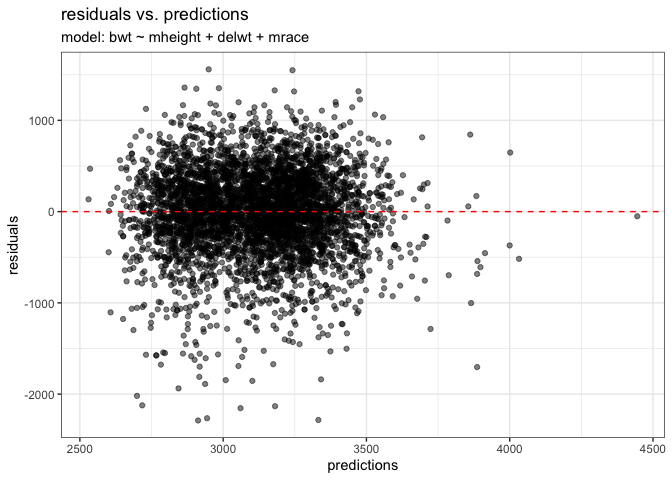
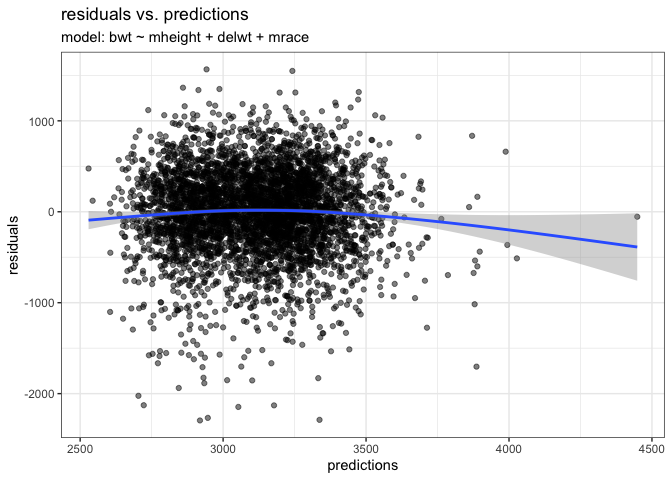
Well Done

diff --git a/p8105_hw6_hc3654.md b/p8105_hw6_hc3654.md
@@ -158,7 +158,8 @@ ggplot(aes(x = OR, y = fct_reorder(city_state, OR)))+
 ```
 
 ![](p8105_hw6_hc3654_files/figure-gfm/unnamed-chunk-6-1.png)<!-- -->
-\### Comment:
+
+### Comment:
 
 The plot reveals that the adjusted Odds Ratio (OR) is less than 1 for
 the majority of cities, indicating a prevailing pattern where female
@@ -272,12 +273,18 @@ fit_bootstrap |>
 |---------:|---------:|
 |    0.934 |    0.947 |
 
+Comments: Here is the plot of distribution for R^2. We can see in most
+of the Beta Ratio estimate is between 0.93 to 0.95, The highest density
+is around -0.943. From the table I saw the lower bound for the 95% CI of
+beta ratio is 0.934. Upper Bound is -0.947. Which confirmed the results
+from our plot.
+
 ### For Beta(1) / Beta(2)
 
 ``` r
 ggplot(fit_bootstrap, aes(x = beta_ratio)) +
   geom_density(fill = "lightblue", alpha = 0.6) +
-  labs(title = "Bootstrap Distribution of R-squared", x = "R^2 Estimate") +
+  labs(title = "Bootstrap Distribution of Beta Ratio", x = "Beta Ratio Estimate") +
   theme_minimal()
 ```
 
@@ -296,6 +303,12 @@ fit_bootstrap |>
 |------------:|------------:|
 |    -274.795 |    -125.484 |
 
+Comments: Here is the plot of distribution for Beta(1)/Beta(2). We can
+see in most of the Beta Ratio estimate is between -100 to -300, The
+highest density is around -170. From the table I saw the lower bound for
+the 95% CI of beta ratio is -274.795. Upper Bound is -125.484. Which
+confirmed the results from our plot.
+
 # Problem 3:
 
 ``` r
@@ -305,7 +318,7 @@ baby_df_cleaned = read.csv("birthweight.csv") |>
   drop_na()
 
 
-my_mod <- lm(bwt ~ mheight + delwt + mrace, data = baby_df_cleaned) 
+my_mod <- lm(bwt ~ mheight + delwt + mrace + menarche + momage, data = baby_df_cleaned) 
 
 
 baby_df_cleaned|> 
@@ -313,7 +326,7 @@ baby_df_cleaned|>
   add_residuals(my_mod) |> 
   ggplot(aes(x = pred, y = resid))+
   geom_point(alpha = 0.5)+
-  geom_hline(yintercept = 0, linetype = "dashed", color = "red")+
+  geom_smooth(type = "lm")+
   labs(title = "residuals vs. predictions",
        subtitle = "model: bwt ~ mheight + delwt + mrace ",
        x = "predictions",
@@ -321,7 +334,50 @@ baby_df_cleaned|>
   theme_bw()
 ```
 
+    ## Warning in geom_smooth(type = "lm"): Ignoring unknown parameters: `type`
+
+    ## `geom_smooth()` using method = 'gam' and formula = 'y ~ s(x, bs = "cs")'
+
 ![](p8105_hw6_hc3654_files/figure-gfm/unnamed-chunk-12-1.png)<!-- -->
+
+### Comments:
+
+My proposed model (my_mod) is built on a hypothesized structure intended
+to link easily accessible maternal and timing factors to the final birth
+weight (bwt, in grams). This selection strategy focuses on core inputs
+that are hypothesized to influence the environment for fetal growth.
+
+bwt ~ mheight + delwt + mrace + menarche + momage
+
+mheight (Mother’s Height): Included to represent maternal structural
+frame size, which is a structural factor that may underlie fetal size
+capacity.
+
+delwt (Mother’s Delivery Weight): This is used as a measure of maternal
+nutritional status and overall physical contribution to the pregnancy
+outcome.
+
+mrace (Mother’s Race): Included as a necessary demographic covariate to
+account for known population-level variations that underly differences
+in baseline birth weight.
+
+menarche (Menarche Age) and momage (Mother’s Age): These factors are
+selected to adjust for maternal biological maturity and timing, which
+are hypothesized to affect the efficiency and quality of the
+reproductive process.
+
+The scatter plot of Residuals vs. Fitted Values shows a wide, symmetric
+dispersion of points around the zero line, suggesting the model captures
+the overall linear trend reasonably well. The homoscedasticity (constant
+variance) assumption is largely met, as the spread of the residuals is
+consistent across the fitted range.
+
+While the smoothing curve indicates a minor, shallow deviation from
+perfect linearity, this trend is not systematic or strong enough to
+invalidate the model. The bulk of the predictions (up to 3500g) show
+minimal average residual deviation. Therefore, this model provides a
+reasonable first-order linear approximation using the selected maternal
+factors.
 
 ``` r
 # Other two models
@@ -358,17 +414,17 @@ cv_df_fits |>
   pivot_longer(everything(), names_to = "model", values_to = "rmse") |>
   group_by(model) |>
   summarize(
-    rmse = mean(rmse),
+    mean_rmse = mean(rmse),
     .groups = "drop"
-  ) 
+  ) |> 
+  knitr::kable(digits = 3)
 ```
 
-    ## # A tibble: 3 × 2
-    ##   model            rmse
-    ##   <chr>           <dbl>
-    ## 1 rmse_main_effs   333.
-    ## 2 rmse_my_mod      466.
-    ## 3 rmse_three_ways  289.
+| model           | mean_rmse |
+|:----------------|----------:|
+| rmse_main_effs  |   332.889 |
+| rmse_my_mod     |   466.596 |
+| rmse_three_ways |   288.584 |
 
 ``` r
 cv_df_fits |> 
@@ -384,3 +440,23 @@ cv_df_fits |>
 ```
 
 ![](p8105_hw6_hc3654_files/figure-gfm/unnamed-chunk-14-1.png)<!-- -->
+
+### Comments:
+
+The results strongly indicate that Model 3 (rmse_three_ways) is the
+optimal predictive model for birth weight among the three tested
+structures.
+
+Best Performance (rmse_three_ways): The lowest mean RMSE (288.584) is
+clearly demonstrated by the blue violin plot. Its shape is centered at
+the lowest point on the RMSE axis, confirming the best predictive
+performance on unseen data. The relative narrowness of this violin
+suggests the error is also highly stable across the 100 test splits.
+
+Worst Performance (rmse_my_mod): The highest mean RMSE (466.596) is
+shown by the green violin plot. Its position is the highest on the axis,
+showing that the maternal-focused model consistently produced the
+largest errors.
+
+Intermediate Performance (rmse_main_effs): The red violin is centered
+between the two extremes, confirming its moderate predictive capability.
